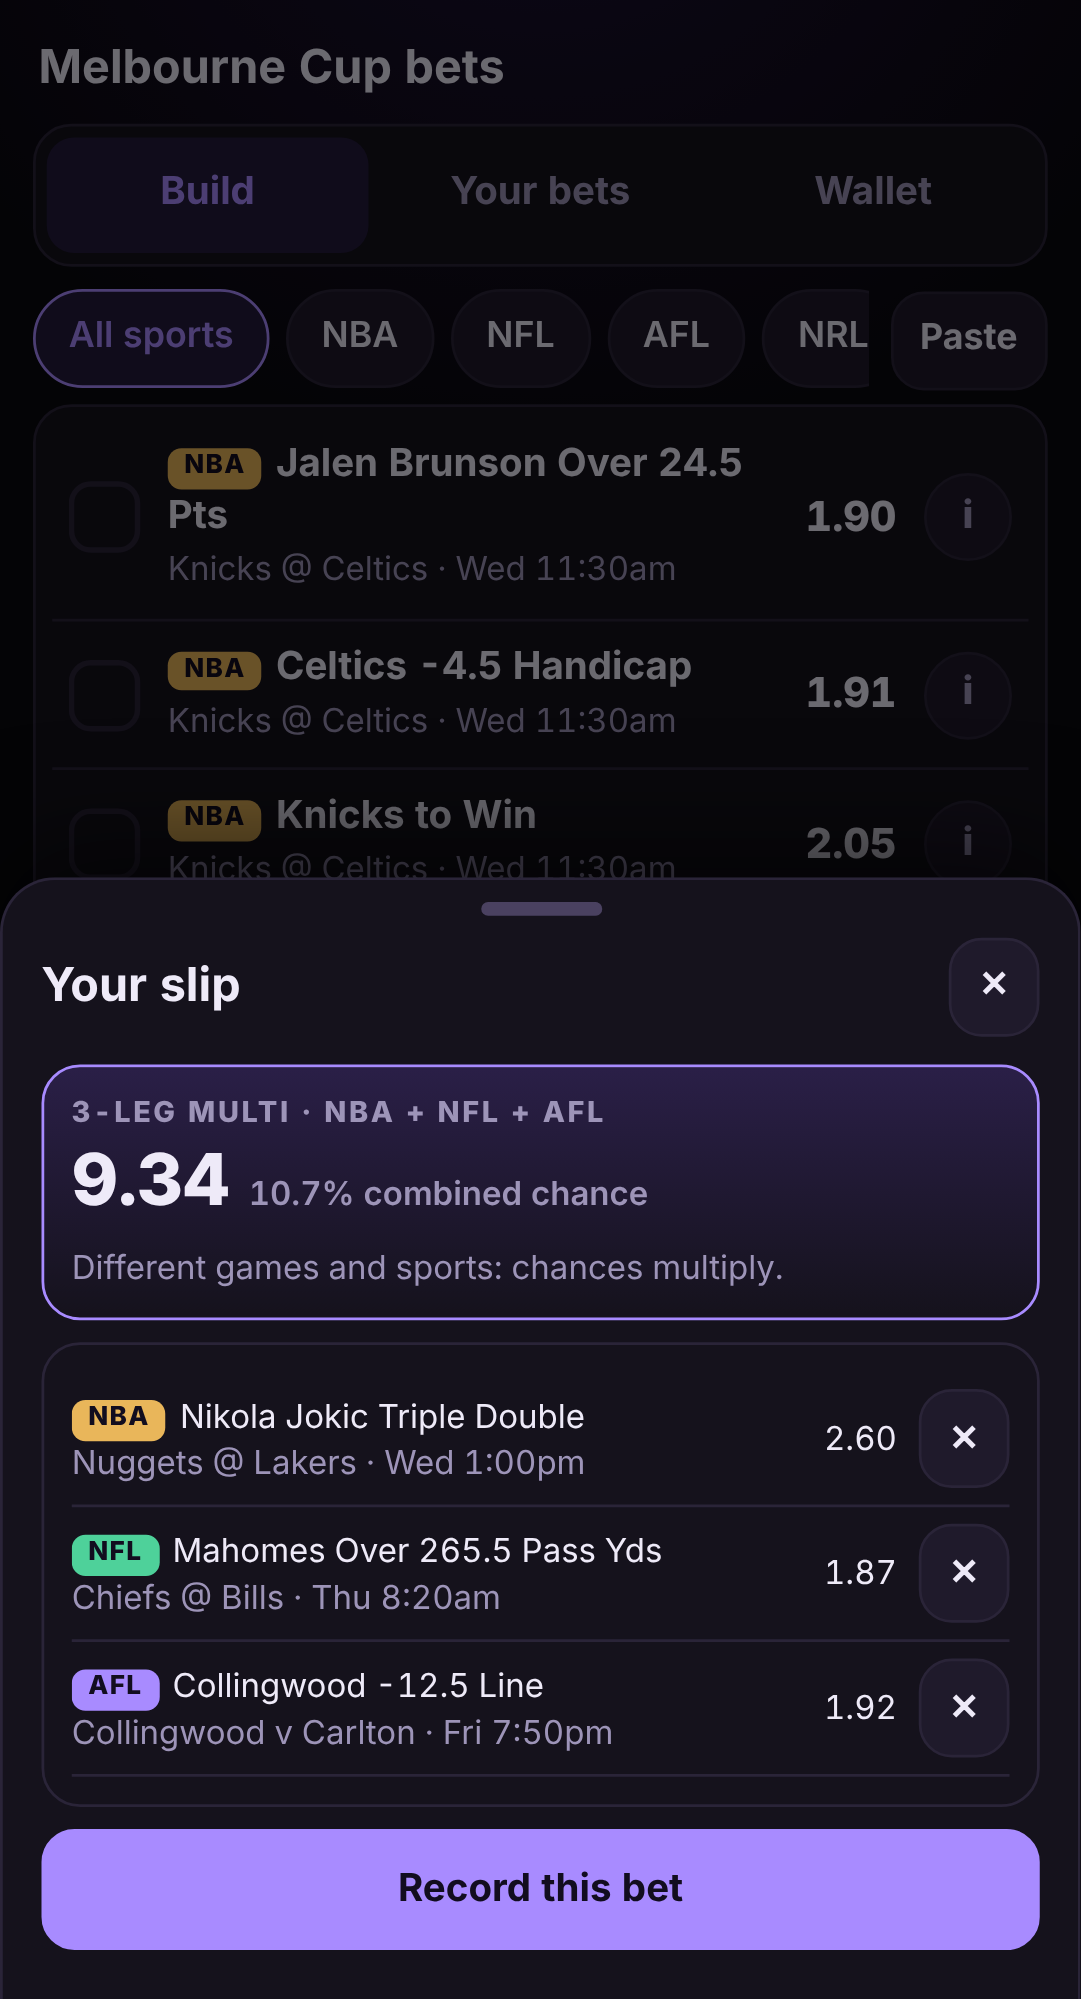
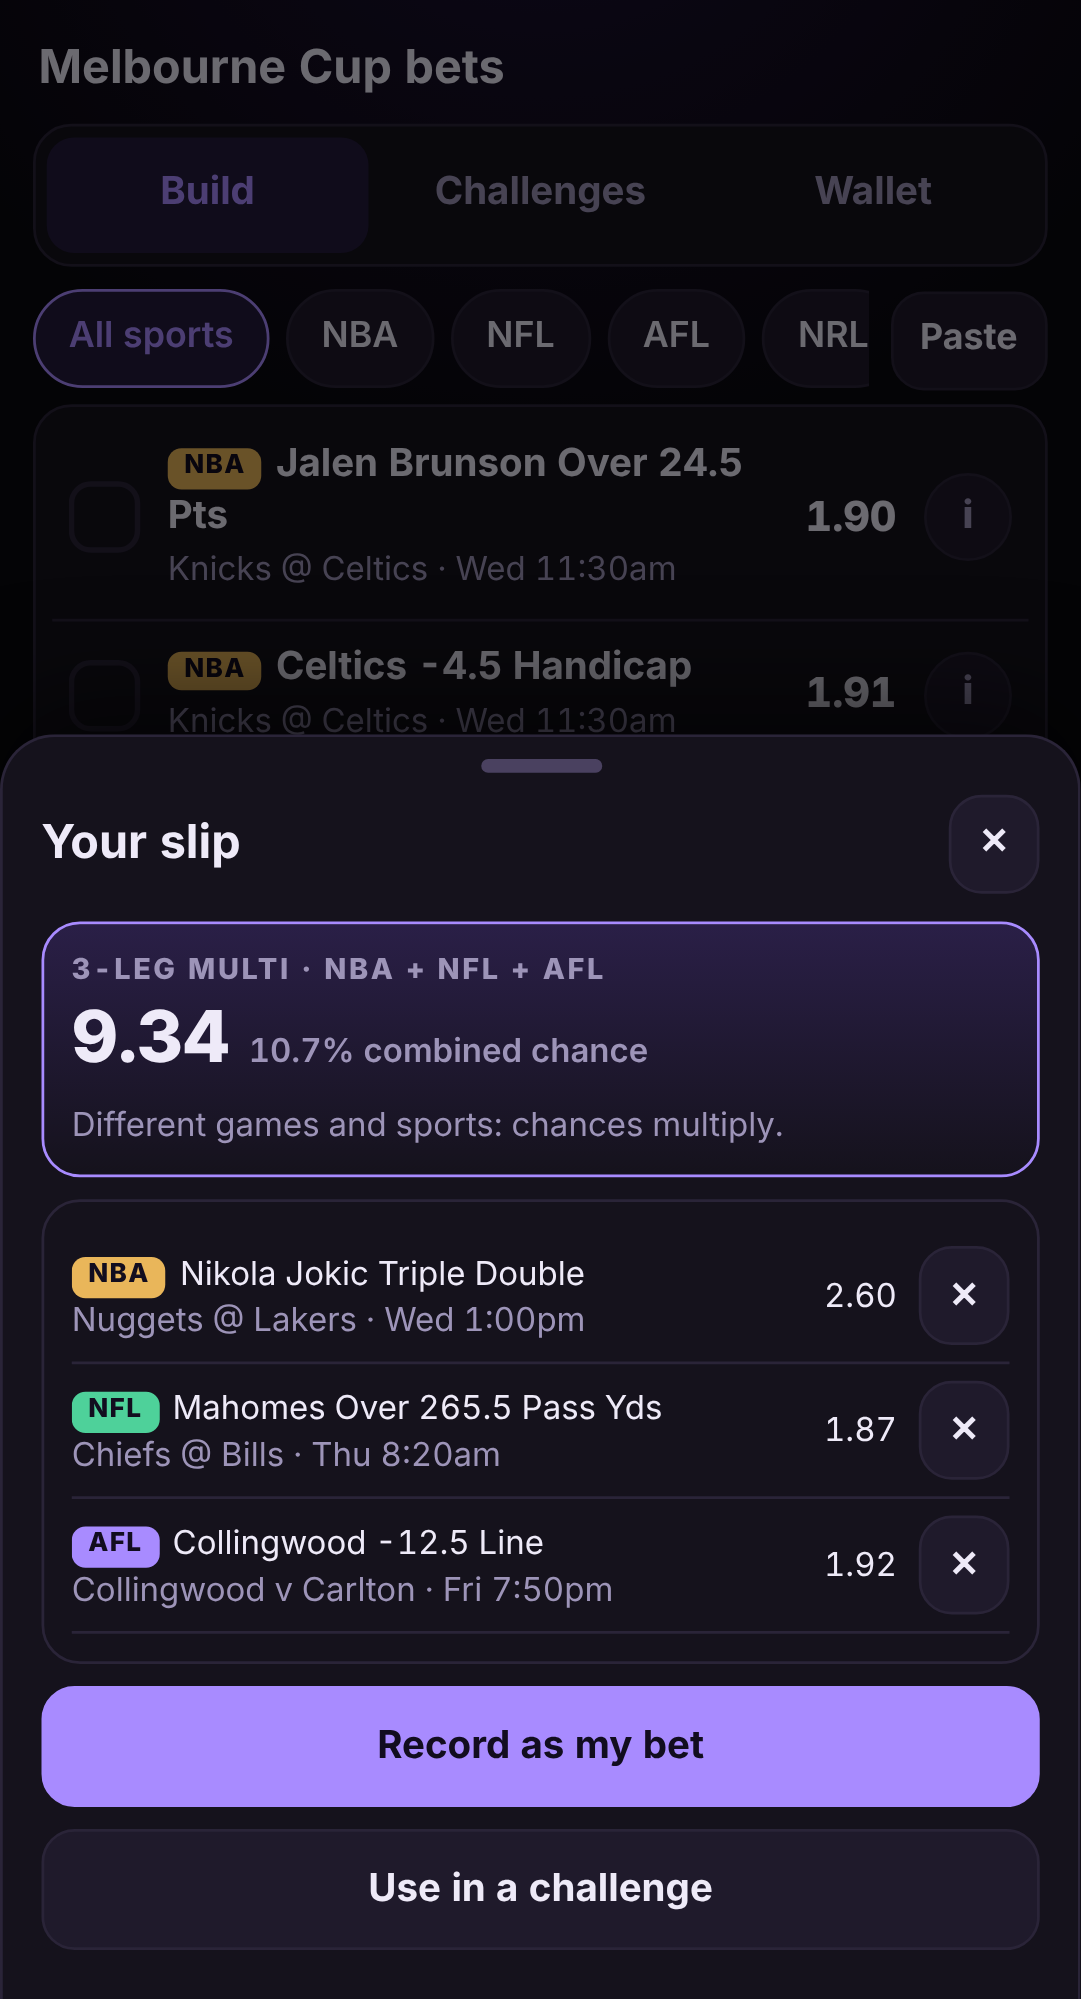
product-ui v13: bottom sheets with swipe-down, challenge flow, refined stage planner
Claude-Session: https://claude.ai/code/session_01ALSSt1kNg3dvAMnEziH9Lz

diff --git a/.grok/product-ui/v13/sheets.html b/.grok/product-ui/v13/sheets.html
@@ -58,7 +58,7 @@ input[type=text],input[type=number],select{width:100%;min-height:44px;background
 .mini{margin:6px 0 10px}
 .card.btnrow{display:flex;align-items:center;gap:10px;min-height:56px;cursor:pointer}
 @media (prefers-reduced-motion:reduce){.sheet.anim,.sheet.anim.out,.bd{transition-duration:.01s!important}}
-</style></head><body><div class="app"><h1>Melbourne Cup bets</h1><div class="tabs" id="tabs"><button class="on" data-t="build">Build</button><button data-t="bets">Your bets</button><button data-t="wallet">Wallet</button></div><div id="build"></div><div id="bets" class="hide"></div><div id="wallet" class="hide"></div></div><button class="bar hide" id="bar"></button><div id="toast" class="toast"></div><script>
+</style></head><body><div class="app"><h1>Melbourne Cup bets</h1><div class="tabs" id="tabs"><button class="on" data-t="build">Build</button><button data-t="bets">Challenges</button><button data-t="wallet">Wallet</button></div><div id="build"></div><div id="bets" class="hide"></div><div id="wallet" class="hide"></div></div><button class="bar hide" id="bar"></button><div id="toast" class="toast"></div><script>
 const $=s=>document.querySelector(s),$$=s=>[...document.querySelectorAll(s)];
 const BOOKS=['Sportsbet','PointsBet','Bet365','TAB'],SPORTS=['NBA','NFL','AFL','NRL'];
 let LEGS=[
@@ -151,10 +151,10 @@ ${x.conf.map(c=>`<div class="warn">Clash: "${c[0].t}" and "${c[1].t}" cannot bot
 ${x.linked.map(g=>`<div class="link">Same game, linked (${g[0].game}). Legs move together, so the real chance is higher than shown and the book may reprice or refuse it.</div>`).join('')}
 ${multi&&!x.linked.length&&!x.conf.length?`<div class="sm muted" style="margin-top:6px">Different games and sports: chances multiply.</div>`:''}</div>
 <div class="card">${a.map(l=>`<div class="row sm" style="padding:6px 0;border-bottom:1px solid var(--rule)"><span class="sp ell"><span class="tag t-${l.s}">${l.s}</span>${l.t}<br><span class="muted">${l.game} · ${l.when}</span></span><span>${l.p.toFixed(2)}</span><button class="btn sm" data-rm="${l.id}" aria-label="Remove">✕</button></div>`).join('')}</div>
-<button class="btn pri" id="rec-go" style="width:100%" ${x.conf.length?'style="opacity:.55"':''}>Record this bet</button>`}
+<button class="btn pri" id="rec-go" style="width:100%;${x.conf.length?'opacity:.55':''}">Record as my bet</button><button class="btn" id="ch-go" style="width:100%;margin-top:8px;${x.conf.length?'opacity:.55':''}">Use in a challenge</button>`}
 function slipSheet(){openSheet('Your slip',slipHtml(),S=>{const b=S.body;
  S.rerender=()=>{if(!sel().length){S.close();return}b.innerHTML=slipHtml();hook()};
- const hook=()=>{b.querySelectorAll('[data-rm]').forEach(x=>x.onclick=()=>{st.sel.delete(+x.dataset.rm);refresh()});const g=b.querySelector('#rec-go');g&&(g.onclick=()=>openRec(sel()))};hook()})}
+ const hook=()=>{b.querySelectorAll('[data-rm]').forEach(x=>x.onclick=()=>{st.sel.delete(+x.dataset.rm);refresh()});const g=b.querySelector('#rec-go');g&&(g.onclick=()=>openRec(sel()));const c=b.querySelector('#ch-go');c&&(c.onclick=()=>chChoice(sel()))};hook()})}
 /* record */
 const R={bk:'Sportsbet',stake:10,price:1,bonus:false,ch:0,bif:'',legs:[]};
 function recHtml(){const s=R.stake,left=R.bonus?st.wallet-s:st.wallet,win=R.bonus?(R.price-1)*s:R.price*s,x=analyse(R.legs);
@@ -175,27 +175,58 @@ function openRec(legs){R.legs=legs;R.price=+comb(legs).toFixed(2);R.bonus=false;
    q('#tgl').onclick=()=>{rd();R.bonus=!R.bonus;if(R.bonus&&R.stake>st.wallet)R.stake=st.wallet;re()};
    q('#save').onclick=()=>{rd();const x=analyse(R.legs);if(R.bonus)st.wallet=Math.max(0,st.wallet-R.stake);st.bets.unshift({id:Date.now(),t:R.legs.length>1?R.legs.length+'-leg '+x.sports.join(' + ')+' multi':R.legs[0].t,legs:R.legs.length,bk:R.bk,stake:R.stake,price:R.price,bonus:R.bonus,bif:+R.bif||0,ch:R.ch?CH[R.ch].split(' · ')[0]:'',s:'o',det:R.legs.map(l=>l.s+' · '+l.t+' '+l.p.toFixed(2))});st.sel.clear();while(stack.length)stack[stack.length-1].close();renderBuild();renderBets();renderWallet();toast('Bet saved')}};
   bind2()})}
-/* bets */
+/* challenges */
+const CHS=[{n:'Cup Run',stage:2,total:5,bank:48.20,target:3.30,pct:40},{n:'$10 to $1000',stage:1,total:8,bank:10.00,target:2.15,pct:12}];
 const ret=b=>b.bonus?(b.price-1)*b.stake:b.price*b.stake;
-function renderBets(){const root=$('#bets');const open=st.bets.filter(b=>b.s=='o').length;
-root.innerHTML=`<div class="lbl" style="margin:6px 2px">${st.bets.length} bets · ${open} open</div><div class="card" style="padding:4px 6px">`+st.bets.map(b=>{const c=b.s=='w'?'w':b.s=='l'?'l':'o';return `<div class="leg" data-b="${b.id}"><span class="sp"><b class="ell">${b.t}</b><small>${b.bk} · ${b.bonus?'bonus ':''}${$f(b.stake)} @ ${b.price.toFixed(2)}</small></span><span class="pill ${c}">${b.s=='w'?'WON '+$f(ret(b)):b.s=='l'?'LOST':'OPEN'}</span></div>`}).join('')+`</div>`;
-root.querySelectorAll('[data-b]').forEach(e=>e.onclick=()=>betSheet(st.bets.find(x=>x.id==e.dataset.b)))}
-function betSheet(b){openSheet('Bet details','',S=>{const draw=()=>{S.body.innerHTML=`<div class="card"><div style="font-size:17px;font-weight:800">${b.t}</div><div class="sm muted">${b.bk} · ${b.bonus?'bonus ':''}${$f(b.stake)} @ ${b.price.toFixed(2)}</div>${b.det.map(d=>`<div class="sm muted" style="padding:3px 0">• ${d}</div>`).join('')}<div class="sm" style="margin-top:6px">${b.ch?'Challenge: '+b.ch+' · ':''}To return <b>${$f(ret(b))}</b>${b.bif?' · bonus if wins '+$f(b.bif):''}</div></div>
+function renderBets(){const root=$('#bets');
+root.innerHTML=`<div class="row" style="margin:6px 2px"><span class="lbl sp">${CHS.length} challenges</span><button class="btn sm pri" id="nc">+ New</button></div>`+CHS.map((c,i)=>`<div class="card btnrow" data-c="${i}"><span class="sp"><b>${c.n}</b><div class="sm muted">stage ${c.stage}/${c.total} · bank ${$f(c.bank)} · next ${c.target.toFixed(2)}x</div><div style="height:5px;border-radius:5px;background:var(--rule);margin-top:6px"><div style="width:${c.pct}%;height:5px;border-radius:5px;background:var(--brand)"></div></div></span><span class="muted">›</span></div>`).join('');
+$('#nc').onclick=()=>newChal();
+root.querySelectorAll('[data-c]').forEach(e=>e.onclick=()=>chalSheet(CHS[+e.dataset.c]))}
+function chalSheet(c){openSheet(c.n,'',S=>{const draw=()=>{const bs=st.bets.filter(b=>b.ch==c.n);S.body.innerHTML=`<div class="card"><div style="height:8px;border-radius:6px;background:var(--rule)"><div style="width:${c.pct}%;height:8px;border-radius:6px;background:var(--brand)"></div></div><div class="kv" style="margin-top:8px"><span class="muted">Stage</span><b>${c.stage} of ${c.total}</b></div><div class="kv"><span class="muted">Bank</span><b>${$f(c.bank)}</b></div><div class="kv" style="border:0"><span class="muted">Next target</span><b>${c.target.toFixed(2)}x</b></div></div><div class="lbl" style="margin:6px 2px">Bets in this challenge</div>${bs.length?`<div class="card" style="padding:4px 6px">`+bs.map(b=>{const k=b.s=='w'?'w':b.s=='l'?'l':'o';return `<div class="leg" data-b="${b.id}"><span class="sp"><b class="ell">${b.t}</b><small>${b.bk} · ${$f(b.stake)} @ ${b.price.toFixed(2)}</small></span><span class="pill ${k}">${b.s=='w'?'WON':b.s=='l'?'LOST':'OPEN'}</span></div>`}).join('')+`</div>`:'<div class="card muted sm">No bets yet.</div>'}`;
+ S.body.querySelectorAll('[data-b]').forEach(e=>e.onclick=()=>betSheet(st.bets.find(x=>x.id==e.dataset.b),draw))};draw()})}
+function betSheet(b,after){openSheet('Bet details','',S=>{const done=()=>{renderBets();renderWallet();after&&after()};const draw=()=>{S.body.innerHTML=`<div class="card"><div style="font-size:17px;font-weight:800">${b.t}</div><div class="sm muted">${b.bk} · ${b.bonus?'bonus ':''}${$f(b.stake)} @ ${b.price.toFixed(2)}</div>${b.det.map(d=>`<div class="sm muted" style="padding:3px 0">• ${d}</div>`).join('')}<div class="sm" style="margin-top:6px">${b.ch?'Challenge: '+b.ch+' · ':''}To return <b>${$f(ret(b))}</b>${b.bif?' · bonus if wins '+$f(b.bif):''}</div></div>
 <div class="row">${b.s=='o'?`<button class="btn good sp" id="w">Won</button><button class="btn bad sp" id="l">Lost</button>`:`<button class="btn sp" id="u">Undo result</button>`}<button class="btn" id="e">Edit</button></div>`;
- const q=s=>S.body.querySelector(s);q('#w')&&(q('#w').onclick=()=>resultSheet(b,'w',S));q('#l')&&(q('#l').onclick=()=>resultSheet(b,'l',S));q('#u')&&(q('#u').onclick=()=>{b.s='o';renderBets();renderWallet();draw()});q('#e').onclick=()=>editSheet(b,S)};S.redraw=draw;draw()})}
-function resultSheet(b,r,P){openSheet(r=='w'?'Mark as won?':'Mark as lost?',`<div class="card"><b>${b.t}</b><div class="sm muted">${r=='w'?'Returns '+$f(ret(b)):'Stake '+$f(b.stake)+' is lost'}</div></div><div class="row"><button class="btn sp" data-close2>Cancel</button><button class="btn ${r=='w'?'good':'bad'} sp" id="ok">Confirm ${r=='w'?'won':'lost'}</button></div>`,S=>{S.body.querySelector('[data-close2]').onclick=S.close;S.body.querySelector('#ok').onclick=()=>{b.s=r;renderBets();renderWallet();S.close();P.redraw();toast(r=='w'?'Marked won':'Marked lost')}})}
+ const q=s=>S.body.querySelector(s);q('#w')&&(q('#w').onclick=()=>resultSheet(b,'w',S));q('#l')&&(q('#l').onclick=()=>resultSheet(b,'l',S));q('#u')&&(q('#u').onclick=()=>{b.s='o';done();draw()});q('#e').onclick=()=>editSheet(b,S)};S.redraw=()=>{done();draw()};draw()})}
+function resultSheet(b,r,P){openSheet(r=='w'?'Mark as won?':'Mark as lost?',`<div class="card"><b>${b.t}</b><div class="sm muted">${r=='w'?'Returns '+$f(ret(b)):'Stake '+$f(b.stake)+' is lost'}</div></div><div class="row"><button class="btn sp" data-close2>Cancel</button><button class="btn ${r=='w'?'good':'bad'} sp" id="ok">Confirm ${r=='w'?'won':'lost'}</button></div>`,S=>{S.body.querySelector('[data-close2]').onclick=S.close;S.body.querySelector('#ok').onclick=()=>{b.s=r;S.close();P.redraw();toast(r=='w'?'Marked won':'Marked lost')}})}
 function editSheet(b,P){openSheet('Edit bet',`<div class="lbl">Name</div><input type="text" id="en" value="${b.t.replace(/"/g,'')}"><div class="row" style="margin-top:8px"><div class="sp"><div class="lbl">Stake</div><input type="number" step="0.01" id="es" value="${b.stake.toFixed(2)}"></div><div class="sp"><div class="lbl">Price</div><input type="number" step="0.01" id="ep" value="${b.price.toFixed(2)}"></div></div><div class="mini" style="margin:10px 0">${BOOKS.map(k=>`<button class="chip ${b.bk==k?'on':''}" data-k="${k}">${k}</button>`).join('')}</div><div class="row"><button class="btn bad" id="del">Delete</button><button class="btn pri sp" id="ok">Save</button></div>`,S=>{let bk=b.bk;const q=s=>S.body.querySelector(s);
  S.body.querySelectorAll('[data-k]').forEach(c=>c.onclick=()=>{bk=c.dataset.k;S.body.querySelectorAll('[data-k]').forEach(x=>x.classList.toggle('on',x==c))});
- q('#ok').onclick=()=>{b.t=q('#en').value;b.stake=+q('#es').value;b.price=+q('#ep').value;b.bk=bk;renderBets();S.close();P.redraw();toast('Saved')};
- q('#del').onclick=()=>{st.bets=st.bets.filter(x=>x!==b);renderBets();S.close();P.close()}})}
+ q('#ok').onclick=()=>{b.t=q('#en').value;b.stake=+q('#es').value;b.price=+q('#ep').value;b.bk=bk;S.close();P.redraw();toast('Saved')};
+ q('#del').onclick=()=>{st.bets=st.bets.filter(x=>x!==b);S.close();P.close();renderBets()}})}
+/* use in a challenge */
+function chChoice(legs){const P=+comb(legs).toFixed(2);
+ openSheet('Use in a challenge',`<div class="sm muted" style="margin-bottom:8px">${legs.length}-leg multi at ${P.toFixed(2)} · ${chance(legs).toFixed(1)}%</div><div class="lbl" style="margin:4px 2px">Challenge next leg</div>${CHS.map((c,i)=>`<div class="card btnrow" data-c="${i}"><span class="sp"><b>${c.n}</b><div class="sm muted">stage ${c.stage}/${c.total} · bank ${$f(c.bank)} · target ${c.target.toFixed(2)}x</div></span><span class="muted">›</span></div>`).join('')}<div class="lbl" style="margin:10px 2px 4px">Or</div><div class="card btnrow" id="nw" style="border-color:var(--brand)"><span class="sp"><b>New challenge</b><div class="sm muted">Plan stages from a start and a goal</div></span><span class="muted">›</span></div>`,S=>{
+  S.body.querySelectorAll('[data-c]').forEach(e=>e.onclick=()=>fitSheet(CHS[+e.dataset.c],legs));
+  S.body.querySelector('#nw').onclick=()=>newChal()})}
+function fitSheet(c,legs){const P=+comb(legs).toFixed(2),ch=chance(legs),diff=P/c.target,pay=c.bank*P;
+ openSheet(c.n+' · stage '+c.stage,`<div class="card multi"><div class="row"><div class="sp"><div class="lbl">Your multi</div><div style="font-size:26px;font-weight:800">${P.toFixed(2)}x</div></div><div class="sp" style="text-align:right"><div class="lbl">Stage target</div><div style="font-size:26px;font-weight:800">${c.target.toFixed(2)}x</div></div></div>
+<div class="${diff>=0.95&&diff<=1.15?'link':diff<0.95?'warn':'link'}" style="margin-top:8px">${diff<0.95?'Short of the target by '+((1-diff)*100).toFixed(0)+'%':diff>1.15?'Above target: riskier than needed':'On target'}</div></div>
+<div class="card"><div class="kv"><span class="muted">Chance</span><b>${ch.toFixed(1)}%</b></div><div class="kv"><span class="muted">Bank staked</span><b>${$f(c.bank)}</b></div><div class="kv" style="border:0"><span class="muted">Bank to payout</span><b>${$f(c.bank)} → ${$f(pay)}</b></div></div><button class="btn pri" id="pl" style="width:100%">Place</button>`,S=>{
+  S.body.querySelector('#pl').onclick=()=>{st.bets.unshift({id:Date.now(),t:legs.length>1?legs.length+'-leg multi':legs[0].t,legs:legs.length,bk:'Sportsbet',stake:c.bank,price:P,bonus:false,ch:c.n,s:'o',det:legs.map(l=>l.s+' · '+l.t+' '+l.p.toFixed(2))});st.sel.clear();while(stack.length)stack[stack.length-1].close();renderBuild();renderBets();toast('Placed in '+c.n)}})}
+/* new challenge */
+const NC={start:10,goal:1000,mode:'leg',per:2,k:null};
+function bestPick(m,mode,per){let best=null;const g=(i,cur)=>{if(cur.length==per){const p=comb(cur),d=Math.abs(Math.log(p/m));if(!best||d<best.d)best={d,legs:[...cur],p};return}
+ for(let j=i;j<LEGS.length;j++){const l=LEGS[j];if(l.custom)continue;if(cur.some(x=>mode=='game'?x.g!=l.g:x.g==l.g))continue;if(cur.some(x=>x.mk==l.mk))continue;g(j+1,[...cur,l])}};g(0,[]);return best}
+function ncOpts(){const R=NC.goal/NC.start,edge=Math.pow(0.95,NC.per);return [2,3,4,5,6,7,8].map(k=>{const m=Math.pow(R,1/k),pc=Math.min(0.97,edge/m);return{k,m,pc,fin:Math.pow(pc,k)}})}
+function ncHtml(){const o=ncOpts(),bestK=o.reduce((a,b)=>b.fin>a.fin?b:a).k;if(!NC.k)NC.k=bestK;const mx=Math.max(...o.map(x=>x.fin)),sel=o.find(x=>x.k==NC.k),pick=bestPick(sel.m,NC.mode,NC.per);
+return `<div class="row"><div class="sp"><div class="lbl">Start $</div><input type="number" step="0.01" inputmode="decimal" id="ns" value="${NC.start.toFixed(2)}"></div><div class="sp"><div class="lbl">Goal $</div><input type="number" step="0.01" inputmode="decimal" id="ng" value="${NC.goal.toFixed(2)}"></div></div>
+<div class="tabs" style="margin:10px 0 6px"><button class="${NC.mode=='game'?'on':''}" data-m="game">One game</button><button class="${NC.mode=='leg'?'on':''}" data-m="leg">One leg per game</button></div>
+<div class="lbl">Legs per multi</div><div class="mini">${[1,2,3,4].map(n=>`<button class="chip ${NC.per==n?'on':''}" data-n="${n}">${n}</button>`).join('')}</div>
+<div class="lbl">Chance to finish by stages</div><div style="margin-top:6px">${o.map(x=>`<div class="card btnrow" data-k="${x.k}" style="min-height:64px;margin-bottom:6px;${NC.k==x.k?'border-color:var(--brand);background:var(--brand-wash)':''}"><span class="sp"><b>${x.k} stages${x.k==bestK?' <span class="pill w">BEST</span>':''}</b><div class="sm muted">${x.m.toFixed(1)}x each · ${(x.pc*100).toFixed(0)}% a stage · <b style="color:var(--ink)">${(x.fin*100).toFixed(1)}%</b> to finish</div><div style="height:5px;border-radius:5px;background:var(--rule);margin-top:6px"><div style="width:${Math.max(4,x.fin/mx*100)}%;height:5px;border-radius:5px;background:${NC.k==x.k?'var(--brand)':'#5b4f7a'}"></div></div></span></div>`).join('')}</div>
+<div class="card multi"><div class="lbl">Best stage 1 pick</div>${pick?`<div style="font-size:22px;font-weight:800">${pick.p.toFixed(2)}x <small class="muted" style="font-size:12px;font-weight:600">${chance(pick.legs).toFixed(1)}% chance</small></div>`+pick.legs.map(l=>`<div class="sm" style="padding:3px 0"><span class="tag t-${l.s}">${l.s}</span>${l.t} <span class="muted">${l.p.toFixed(2)}</span></div>`).join(''):'<div class="sm muted">No matching legs for this setup. Try another mode or fewer legs.</div>'}</div>
+<button class="btn pri" id="go" style="width:100%" ${pick?'':'disabled'}>Start challenge</button>`}
+function newChal(){NC.k=null;openSheet('New challenge',ncHtml(),S=>{const q=s=>S.body.querySelector(s);
+ const re=()=>{const y=S.body.scrollTop;S.body.innerHTML=ncHtml();hook();S.body.scrollTop=y};
+ const rd=()=>{NC.start=Math.max(0.01,+q('#ns').value||10);NC.goal=Math.max(NC.start*1.5,+q('#ng').value||1000)};
+ const hook=()=>{['#ns','#ng'].forEach(i=>q(i).onchange=()=>{rd();NC.k=null;re()});
+  S.body.querySelectorAll('[data-m]').forEach(b=>b.onclick=()=>{rd();NC.mode=b.dataset.m;re()});
+  S.body.querySelectorAll('[data-n]').forEach(b=>b.onclick=()=>{rd();NC.per=+b.dataset.n;NC.k=null;re()});
+  S.body.querySelectorAll('[data-k]').forEach(b=>b.onclick=()=>{rd();NC.k=+b.dataset.k;re()});
+  q('#go').onclick=()=>{rd();const m=Math.pow(NC.goal/NC.start,1/NC.k);CHS.unshift({n:'$'+NC.start.toFixed(0)+' to $'+NC.goal.toFixed(0),stage:1,total:NC.k,bank:NC.start,target:+m.toFixed(2),pct:0});while(stack.length)stack[stack.length-1].close();renderBets();toast('Challenge started')}};hook()})}
 /* wallet */
-const CHS=[['Cup Run',2,5,'$48.20',40],['$10 to $1000',1,8,'$10.00',12]];
 function renderWallet(){const root=$('#wallet'),open=st.bets.filter(b=>b.s=='o').reduce((n,b)=>n+b.stake,0);
 root.innerHTML=`<div class="bonus"><div class="row"><span class="sp"><span class="lbl" style="color:var(--warn)">Bonus credits</span><div style="font-size:24px;font-weight:800">${$f(st.wallet)} <small style="font-size:12px;font-weight:600">Sportsbet</small></div></span><button class="btn sm" id="addb">+ Credit</button></div></div>
-<div class="lbl" style="margin:12px 2px 6px">Challenges</div>${CHS.map((c,i)=>`<div class="card btnrow" data-c="${i}"><span class="sp"><b>${c[0]}</b><div class="sm muted">stage ${c[1]}/${c[2]} · bank ${c[3]}</div></span><span class="muted">›</span></div>`).join('')}
-<div class="card sm muted">At risk in open bets: <b style="color:var(--ink)">${$f(open)}</b></div>`;
-$('#addb').onclick=()=>openSheet('Add credit',`<div class="lbl">Amount</div><input type="number" step="0.01" inputmode="decimal" id="bamt" placeholder="0.00"><div class="mini" style="margin-top:10px">${[5,10,20,50].map(v=>`<button class="chip" data-a="${v}">$${v}</button>`).join('')}</div><button class="btn pri" id="bok" style="width:100%">Add credit</button>`,S=>{const q=s=>S.body.querySelector(s);S.body.querySelectorAll('[data-a]').forEach(c=>c.onclick=()=>q('#bamt').value=c.dataset.a);q('#bok').onclick=()=>{st.wallet+=+q('#bamt').value||0;renderWallet();S.close();toast('Credit added')}});
-root.querySelectorAll('[data-c]').forEach(e=>e.onclick=()=>{const c=CHS[+e.dataset.c];openSheet(c[0],`<div class="card"><div style="height:8px;border-radius:6px;background:var(--rule)"><div style="width:${c[4]}%;height:8px;border-radius:6px;background:var(--brand)"></div></div><div class="kv" style="margin-top:8px"><span class="muted">Stage</span><b>${c[1]} of ${c[2]}</b></div><div class="kv" style="border:0"><span class="muted">Bank</span><b>${c[3]}</b></div></div>`)})}
+<div style="height:8px"></div><div class="card sm muted">At risk in open bets: <b style="color:var(--ink)">${$f(open)}</b></div>`;
+$('#addb').onclick=()=>openSheet('Add credit',`<div class="lbl">Amount</div><input type="number" step="0.01" inputmode="decimal" id="bamt" placeholder="0.00"><div class="mini" style="margin-top:10px">${[5,10,20,50].map(v=>`<button class="chip" data-a="${v}">$${v}</button>`).join('')}</div><button class="btn pri" id="bok" style="width:100%">Add credit</button>`,S=>{const q=s=>S.body.querySelector(s);S.body.querySelectorAll('[data-a]').forEach(c=>c.onclick=()=>q('#bamt').value=c.dataset.a);q('#bok').onclick=()=>{st.wallet+=+q('#bamt').value||0;renderWallet();S.close();toast('Credit added')}})}
 $$('#tabs button').forEach(b=>b.onclick=()=>{$$('#tabs button').forEach(x=>x.classList.toggle('on',x==b));['build','bets','wallet'].forEach(t=>$('#'+t).classList.toggle('hide',t!=b.dataset.t));$('#bar').style.display=b.dataset.t=='build'?'':'none'});
 renderBuild();renderBets();renderWallet();
 </script></body></html>
